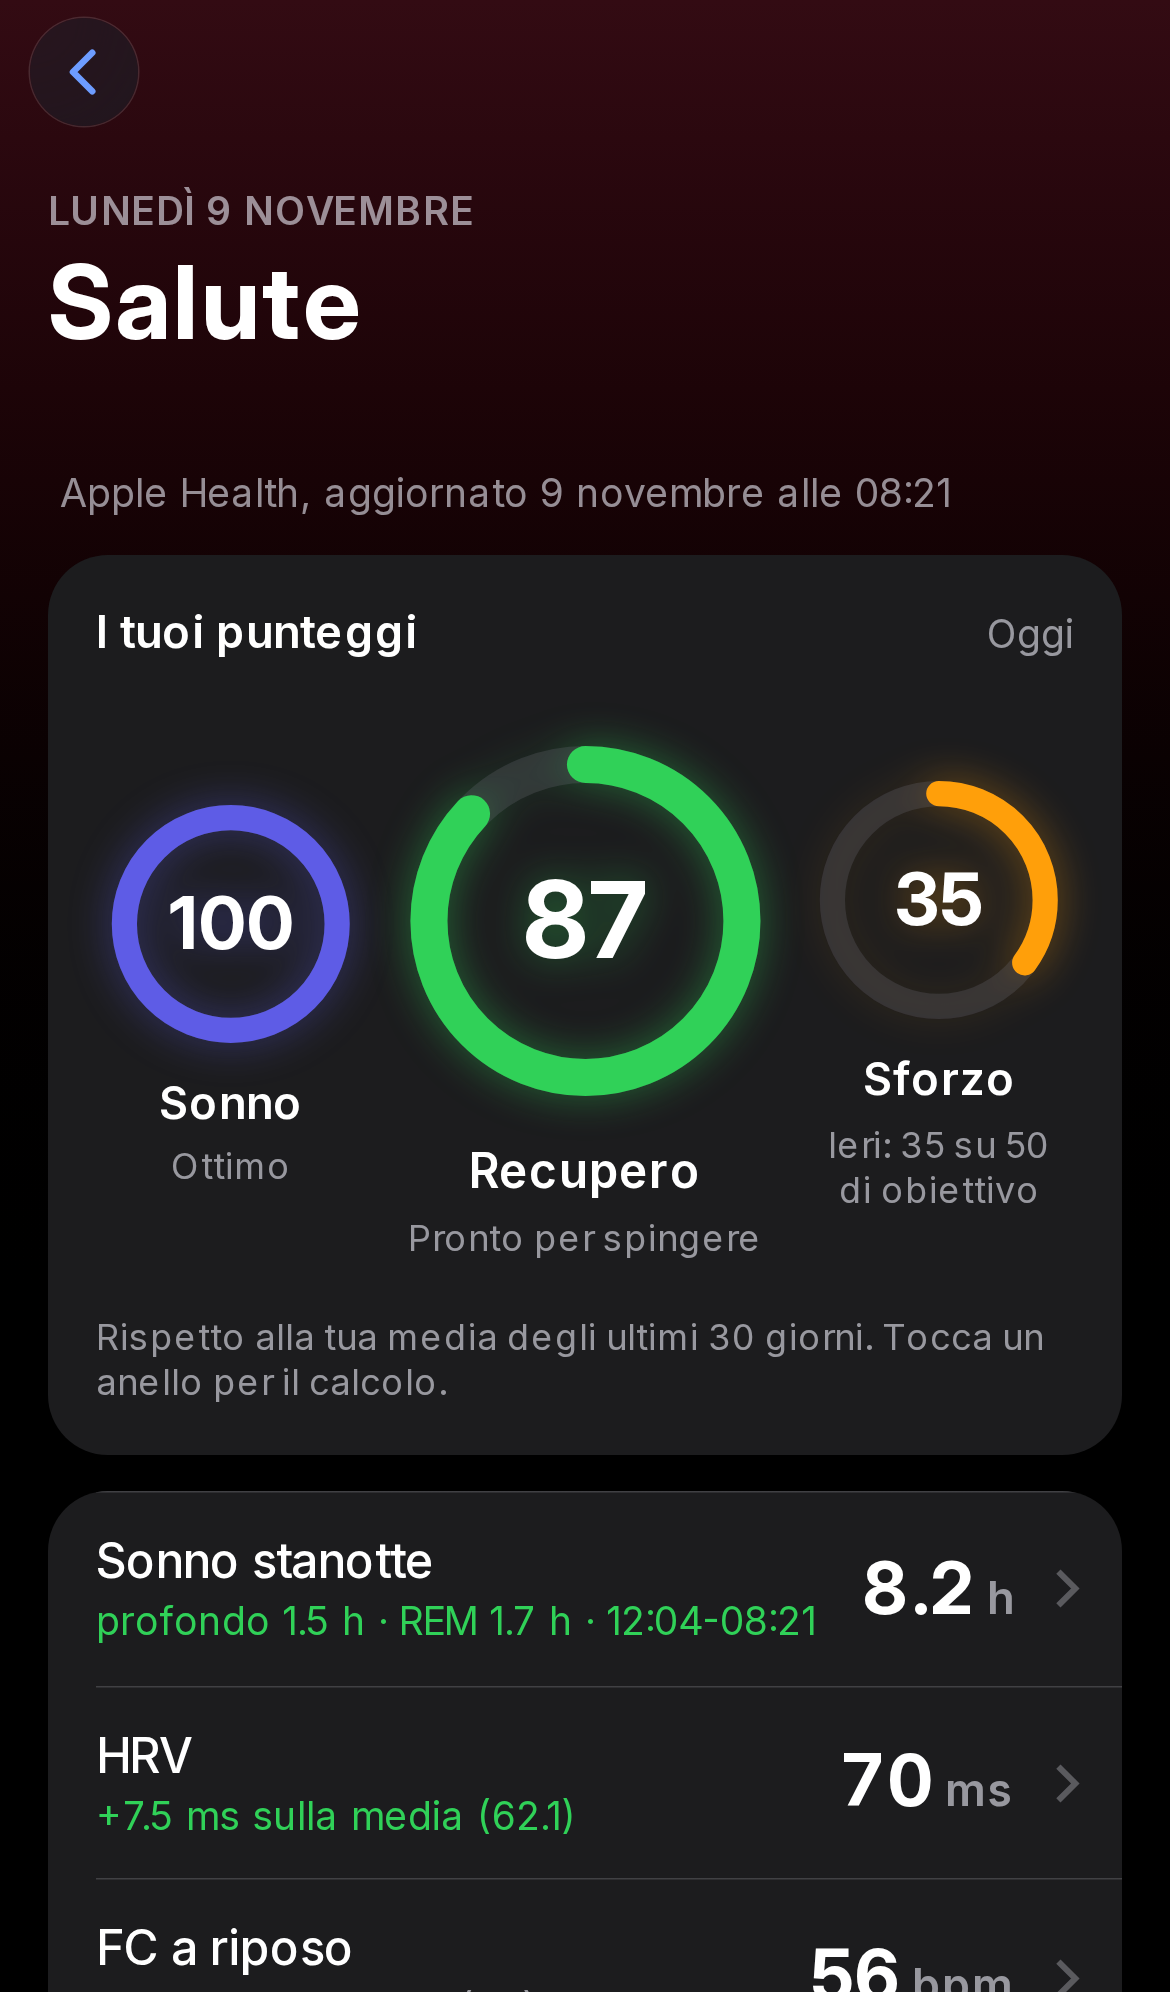
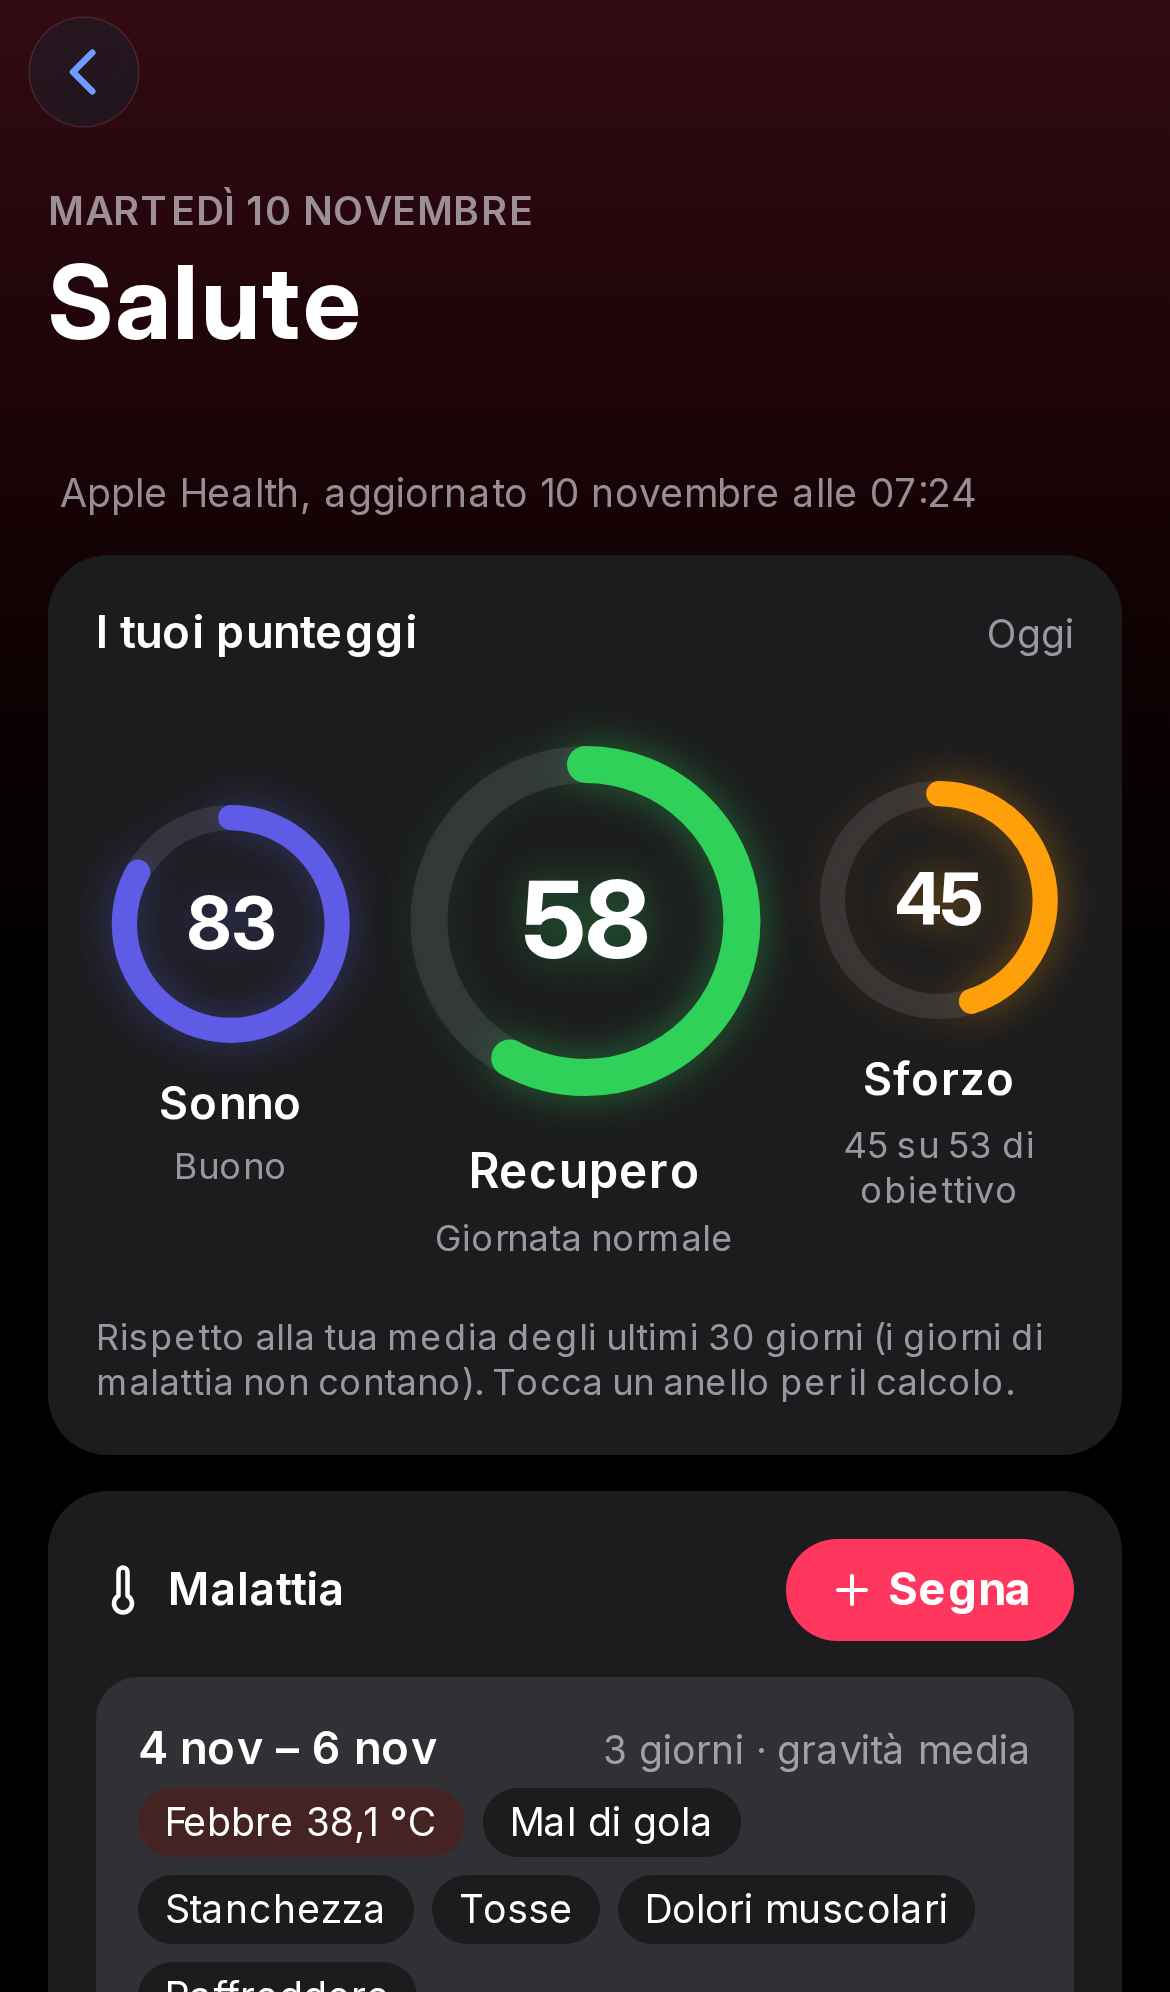
Demo: tre giorni di malattia inventati, foto della card Malattia e mascotte del Medico

diff --git a/tools/demo-dati.py b/tools/demo-dati.py
@@ -58,6 +58,11 @@ MENU = {
     "cena": [lambda: pasto(voce("Salmone", 180, 208, 20, 0, 13), voce("Patate", 250, 77, 2, 17, .1), voce("Insalata mista", 100, 20, 1.3, 3, .2)),
              lambda: pasto(voce("Uova", 150, 143, 12.6, .7, 9.5), voce("Pane integrale", 100, 247, 13, 41, 3.4), voce("Spinaci", 150, 23, 2.9, 3.6, .4))],
 }
+# giorni fa → (HRV, FC a riposo): tutto inventato
+MALATO = {6: (51.0, 63), 5: (43.0, 68), 4: (49.0, 64)}
+SINTOMI_DEMO = {6: ["Mal di gola", "Stanchezza"], 5: ["Febbre", "Mal di gola", "Tosse", "Dolori muscolari"], 4: ["Tosse", "Raffreddore"]}
+FEBBRE_DEMO = {5: 38.1}
+NOTE_DEMO = {5: "Giornata a letto, tanta acqua."}
 PESI_GIORNI = {0, 2, 4, 5}  # lun=0: pesi mar, gio, ven, dom come nella Plancia
 peso = 72.4
 for i in range(GIORNI, -1, -1):
@@ -77,12 +82,19 @@ for i in range(GIORNI, -1, -1):
     if i % 4 == 0:
         peso = round(peso - random.uniform(0, .25), 1)
         s["peso"] = peso
+    if i in MALATO:  # tre giorni di raffreddore con febbre (inventati): HRV in calo, FC a riposo in salita, meno passi
+        s["hrv"], s["fc_riposo"] = MALATO[i]
+        if "passi" in s:
+            s["passi"] = random.choice([2100, 2600, 3300])
+            s["kcal attive"] = random.choice([90, 120, 160])
+        metti("malattia", k(d), {"data": k(d), "sintomi": SINTOMI_DEMO[i], "febbre": FEBBRE_DEMO.get(i), "gravita": 2 if i == 5 else 1,
+                                  "note": NOTE_DEMO.get(i, ""), "inserito": k(d) + "T20:00:00+01:00"})
     metti("salute", k(d), s)
 
     h = {x: random.random() < .9 for x in ("sveglia", "acqua", "letto", "colazione", "pranzo", "merenda", "cena", "telefono", "lettura")}
     if w < 5:
         h["studio"] = random.random() < .8
-    if w in (1, 3):
+    if w in (1, 3) and i not in MALATO:
         h["muaythai"] = True
     giorno = {"h": h, "sonno": round(ore, 1), "sonnoFonte": "apple"}
     if i > 0 or True:
@@ -93,7 +105,7 @@ for i in range(GIORNI, -1, -1):
             if h.get(nome):
                 cibo[nome] = random.choice(opzioni)()
         giorno["cibo"] = cibo
-    if w in PESI_GIORNI and i > 0:
+    if w in PESI_GIORNI and i > 0 and i not in MALATO:
         h["pesi"] = True
         wid = f"demo{i:02d}"
         es = [("Panca piana (bilanciere)", 70), ("Squat (bilanciere)", 95), ("Stacco rumeno", 85), ("Trazioni zavorrate", 15)]

diff --git a/tools/foto.py b/tools/foto.py
@@ -83,6 +83,12 @@ def main():
             vai(scheda)
             foto(nome)
 
+        # 16 · Salute: la card Malattia (tre giorni inventati, con i dati di salute accanto alla media)
+        vai("salute")
+        frame().evaluate("() => document.querySelector('.card.mal').scrollIntoView({block: 'start'}); window.scrollBy(0, -72)")
+        pg.wait_for_timeout(900)
+        foto("16-malattia.png")
+
         # 9-10 · Studio e il suo dettaglio
         vai("oggi")
         frame().evaluate("() => document.querySelector('section[aria-label=\"Studio\"]').scrollIntoView()")
@@ -113,10 +119,10 @@ def main():
             fr.locator("#" + campo).fill(valore)
         foto("12-cibo-nuovo.png")
 
-        # 8 · le mascotte: sette umori e i sei subagenti (collage senza barra)
+        # 8 · le mascotte: sette umori e i sette subagenti (collage senza barra)
         pg.reload()
         pg.wait_for_timeout(800)
-        pg.set_viewport_size({"width": 900, "height": 400})
+        pg.set_viewport_size({"width": 1000, "height": 400})
         pg.evaluate("""() => {
           document.querySelectorAll('body > *').forEach(e => e.style.display = 'none');
           const g = document.createElement('div');
@@ -127,7 +133,7 @@ def main():
               c.append(nome); r.appendChild(c); }); g.appendChild(r); };
           riga(['calmo', 'ascolta', 'pensa', 'parla', 'felice', 'dorme', 'confuso'].map(u => [u, {}, u]));
           riga([['Daneel', {}], ['Calendario', {figura: 'calendario'}], ['Postino', {figura: 'postino'}],
-                ['Nutrizionista', {figura: 'nutrizionista'}], ['Coach', {figura: 'coach'}], ['Amanuense', {figura: 'amanuense'}]]);
+                ['Nutrizionista', {figura: 'nutrizionista'}], ['Coach', {figura: 'coach'}], ['Medico', {figura: 'medico'}], ['Amanuense', {figura: 'amanuense'}]]);
           document.body.appendChild(g);
         }""")
         pg.wait_for_timeout(1200)

diff --git a/README.md b/README.md
@@ -15,6 +15,7 @@ Daneel is a small Progressive Web App (PWA) that you add to your iPhone home scr
   <img src="docs/screenshots/1-chat.png" width="230" alt="Chat">
   <img src="docs/screenshots/3-oggi.png" width="230" alt="Today">
   <img src="docs/screenshots/4-salute.png" width="230" alt="Health">
+  <img src="docs/screenshots/16-malattia.png" width="230" alt="Illness card with the sick days' health data (fake)">
 </p>
 <p align="center">
   <img src="docs/screenshots/5-cibo.png" width="230" alt="Food">
